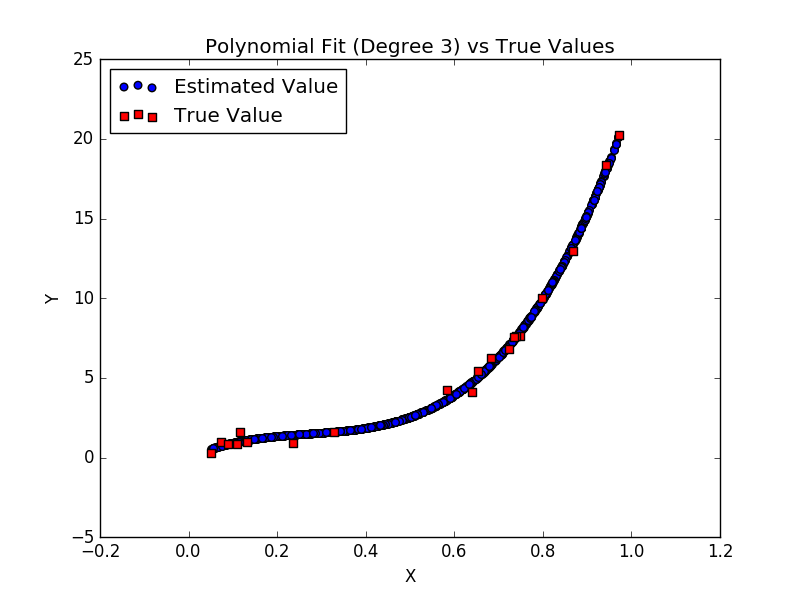
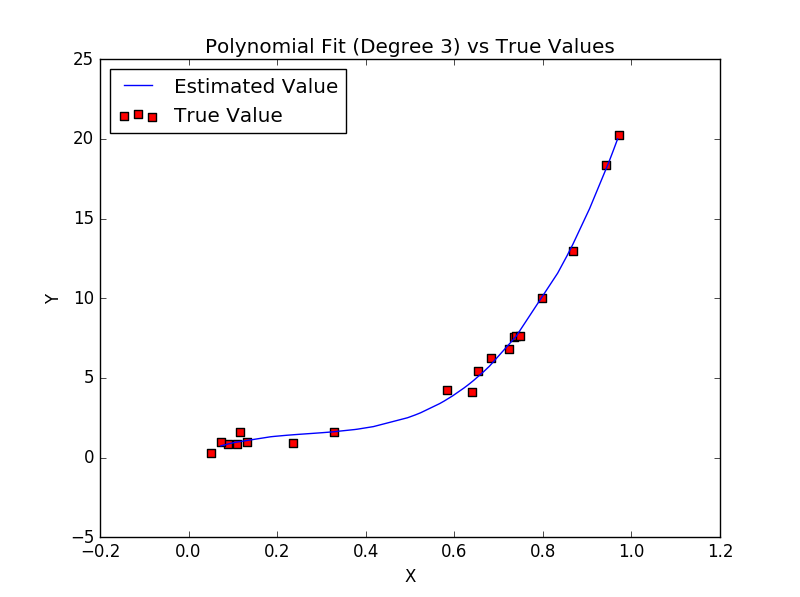
More minor improvements

diff --git a/main.py b/main.py
@@ -10,6 +10,11 @@ with open("input.txt") as f:
         x.append(float(line.split(" ")[0]))
         y.append(float(line.split(" ")[1]))
 
+yx = zip(y,x)
+yx.sort()
+x = [a for b,a in yx]
+y = [b for b,a in yx]
+
 N = len(x)
 
 print "Enter the Degree of the Polynomial to be fit\n(It should be less than number of Data points available)\n"
@@ -65,15 +70,16 @@ R = 1 - (S/So)
 print "Coefficient of Determination",R
 outfile.write("\nCoefficient of Determination\n")
 outfile.write(str(R))
-t = [random.random()*(max(x) - min(x)) + min(x) for i in range(1000)]
-ty = [get_prediction(coeffs,t[i]) for i in range(1000)]
+t = [random.random()*(max(x) - min(x)) + min(x) for i in range(2*len(x))]
+t.sort()
+ty = [get_prediction(coeffs,t[i]) for i in range(len(t))]
 
 fig = plt.figure()
 ax = fig.add_subplot(111)
 ax.set_title("Polynomial Fit (Degree "+str(n)+")"+" vs True Values")
 ax.set_ylabel("Y")
 ax.set_xlabel("X")
-ax.scatter(t,ty, s=30, c='b', marker="o", label='Estimated Value')
+ax.plot(t,ty, "-", label='Estimated Value')
 ax.scatter(x,y, s=30, c='r', marker="s", label='True Value')
 plt.legend(loc='upper left')
 plt.show()
